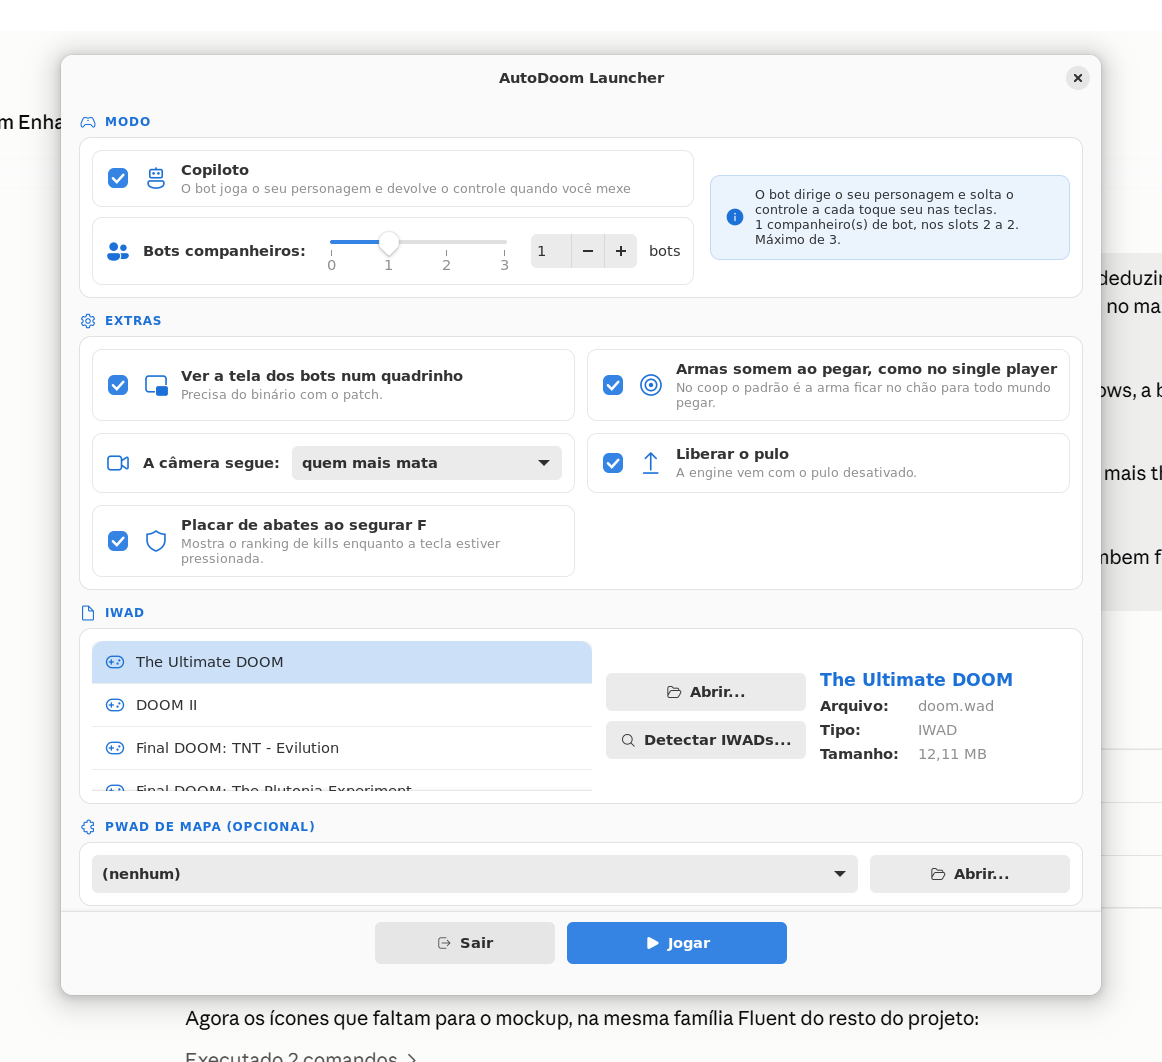
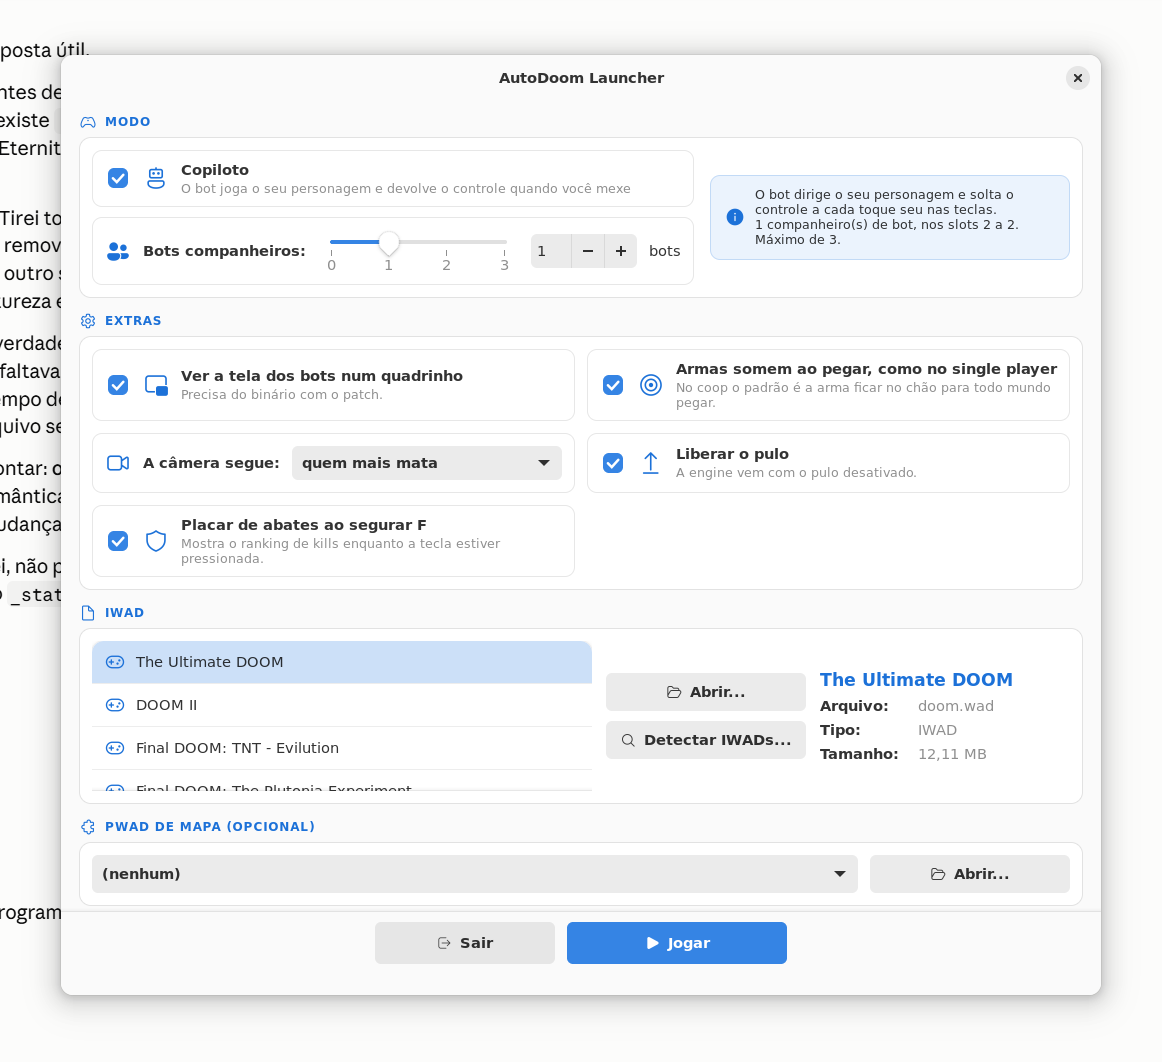
Slider and spinner become one value, and it is always an integer
They were two numbers mirrored by hand, with a _syncing flag so neither
handler called the other back. Sharing a single Gtk.Adjustment removes
the mirroring entirely: both widgets are views of the same number, so
there is nothing left to keep in sync and the flag is gone.

Snapping is the visible part. A Gtk.Scale works in floating point, so a
drag used to rest between two marks -- the handle pointing at 1.4 while
the spinner read 1. round_digits pins the drag to whole numbers, and
rounding inside the value-changed handler covers what round_digits does
not: values written by code, like the count restored from settings.
No recursion, since the second pass is already an integer and GTK only
emits the signal when the value actually changes.

Measured after the change: 1.4 lands on 1, 2.6 on 3, -1 clamps to 0 and
9 clamps to 3, with the spinner and the command line agreeing every time.

diff --git a/linux-launcher/autodoom_launcher/window.py b/linux-launcher/autodoom_launcher/window.py
@@ -187,22 +187,30 @@ class LauncherWindow(Adw.ApplicationWindow):
             self._copilot, "bot", "Copiloto",
             "O bot joga o seu personagem e devolve o controle quando você mexe"))
 
-        self._companions = Gtk.Scale.new_with_range(Gtk.Orientation.HORIZONTAL, 0, 3, 1)
-        self._companions.set_draw_value(False)
-        self._companions.set_hexpand(True)
+        # Um unico Gtk.Adjustment para o slider e o spinner. Antes eram dois
+        # valores espelhados na mao, com uma trava para nao se chamarem em
+        # cascata; compartilhando o adjustment nao ha o que sincronizar -- os
+        # dois controles sao vistas do mesmo numero, e a trava sumiu junto.
+        self._bots = Gtk.Adjustment(lower=0, upper=3, step_increment=1, page_increment=1,
+                                    value=self._settings.get("companions", 1))
+        self._bots.connect("value-changed", self._on_bots_changed)
+
+        self._companions = Gtk.Scale(orientation=Gtk.Orientation.HORIZONTAL,
+                                     adjustment=self._bots, draw_value=False, hexpand=True)
+        # Sem isto o arrasto para no meio do caminho: o Gtk.Scale trabalha em
+        # ponto flutuante e a alca ficaria entre duas marcas, mostrando 1 no
+        # spinner enquanto aponta para 1,4. Com round_digits 0 ela so descansa
+        # em numero inteiro, que e o unico valor que a engine aceita.
+        self._companions.set_round_digits(0)
+        self._companions.set_digits(0)
+        # Rolar o mouse e clicar numa marca passam a valer um passo cheio.
+        self._companions.set_increments(1, 1)
         for i in range(4):
             self._companions.add_mark(i, Gtk.PositionType.BOTTOM, str(i))
 
-        self._spin = Gtk.SpinButton.new_with_range(0, 3, 1)
-        self._spin.set_valign(Gtk.Align.CENTER)
-
-        # Uma fonte de verdade: o slider. O spinner espelha, e a trava impede
-        # que um chame o outro em cascata.
-        self._syncing = False
-        self._companions.connect("value-changed", self._on_slider)
-        self._spin.connect("value-changed", self._on_spin)
-        self._companions.set_value(self._settings.get("companions", 1))
-        self._spin.set_value(self._companions.get_value())
+        self._spin = Gtk.SpinButton(adjustment=self._bots, climb_rate=1, digits=0,
+                                    numeric=True, snap_to_ticks=True,
+                                    valign=Gtk.Align.CENTER)
 
         slider_row = Gtk.Box(orientation=Gtk.Orientation.HORIZONTAL, spacing=12)
         slider_row.append(self._companions)
@@ -215,24 +223,27 @@ class LauncherWindow(Adw.ApplicationWindow):
 
         return self._section("Modo", "gamepad", grid)
 
-    def _on_slider(self, scale: Gtk.Scale) -> None:
-        if self._syncing:
+    def _on_bots_changed(self, adjustment: Gtk.Adjustment) -> None:
+        # O round_digits arredonda o que o usuario arrasta, mas nao o que o
+        # codigo escreve: o valor restaurado das preferencias, por exemplo,
+        # poderia entrar quebrado e deixar a alca entre duas marcas com o
+        # spinner mostrando outro numero. Arredondar aqui fecha os dois casos.
+        # Nao ha recursao: na segunda passada o valor ja e inteiro e o GTK so
+        # emite o sinal quando ele muda de verdade.
+        value = adjustment.get_value()
+        rounded = round(value)
+        if value != rounded:
+            adjustment.set_value(rounded)
             return
-        self._syncing = True
-        self._spin.set_value(round(scale.get_value()))
-        self._syncing = False
+
         self._update_hint()
 
-    def _on_spin(self, spin: Gtk.SpinButton) -> None:
-        if self._syncing:
-            return
-        self._syncing = True
-        self._companions.set_value(spin.get_value())
-        self._syncing = False
-        self._update_hint()
+    def _companion_count(self) -> int:
+        """O valor que vai para a linha de comando: inteiro, sempre."""
+        return int(round(self._bots.get_value()))
 
     def _update_hint(self) -> None:
-        count = int(self._spin.get_value())
+        count = self._companion_count()
         first = ("O bot dirige o seu personagem e solta o controle a cada toque seu nas teclas."
                  if self._copilot.get_active()
                  else "Sem copiloto: você joga o seu personagem do início ao fim.")
@@ -462,7 +473,7 @@ class LauncherWindow(Adw.ApplicationWindow):
         opts = Options(
             iwad=iwad.path,
             copilot=self._copilot.get_active(),
-            companions=int(self._spin.get_value()),
+            companions=self._companion_count(),
             pip=self._pip.get_active(),
             weapons_stay_off=self._weapons.get_active(),
             pwad=self._pwad_path if self._pwad.get_selected() == 0 else None,
